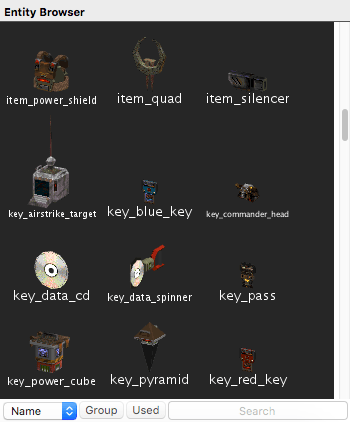
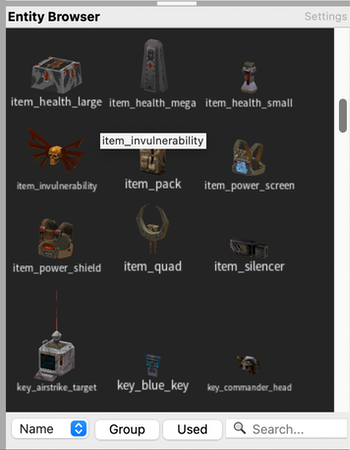
deploy: TrenchBroom/TrenchBroom@4b33e697761b98d5a0c294c6038b08195a6df755

diff --git a/latest/index.html b/latest/index.html
@@ -95,7 +95,7 @@
           <img src="images/icon.png" alt="TrenchBroom Icon">
           <div>
             <span id="content_version_heading">TrenchBroom 2024.1 Reference Manual</span>
-            <span><strong>Build:</strong> v2024.1-RC1 Release</span>
+            <span><strong>Build:</strong> v2024.1-RC2 Release</span>
           </div>
         </div>
         <div id="content_version_links">
@@ -384,7 +384,8 @@
         <p>The order of the enabled mods is important because it defines the <a href="#mods">priorities for loading resources</a>. You can change the priority of enabled mods by reordering them in the list. For this, you can select an enabled mod and use the small triangles below the list of enabled mods to push it up or down.</p>
         <p>Mods are stored in a worldspawn property called "_tb_mod".</p>
         <h3 id="entity_definition_setup">Loading Entity Definitions</h3>
-        <p><img src="images/EntityDefinitionEditor.png" alt="Entity definition editor" /> Entity definitions are text files containing information about <a href="#entity_definitions">the meaning of entities and their properties</a>. Depending on the game and mod you are mapping for, you might want to load different entity definitions into the editor. To load an entity definition file into TrenchBroom, switch to the entity inspector and unfold the entity definition browser at the bottom of the inspector. The entity definition browser is horizontally divided into two areas. The upper area contains a list of <em>builtin</em> entity definition files. These are the entity definition files that came with TrenchBroom for the game you are currently working on. You can select one of these builtin files by clicking on it. TrenchBroom will load the file and update its resources accordingly. Alternatively, you may want to load an external entity definition file of your own. To do this, click the button labeled “Browse” in the lower area of the entity definition browser and choose the file you wish to load. Currently, TrenchBroom supports Radiant DEF files and ENT files as well as <a href="https://developer.valvesoftware.com/wiki/FGD">Valve FGD</a> files. To reload the entity definitions (as well as the referenced models) from the currently loaded external file, you can click the button labeled “Reload” at the bottom or use <script>print_menu_item("Menu/File/Reload Entity Definitions");</script>. This may be useful if you’re editing an entity definition file for a mod you’re working on.</p>
+        <p><img src="images/EntityDefinitionEditor.png" alt="Entity definition editor" /> Entity definitions are text files containing information about <a href="#entity_definitions">the meaning of entities and their properties</a>. Depending on the game and mod you are mapping for, you might want to load different entity definitions into the editor. To load an entity definition file into TrenchBroom, switch to the entity inspector and click on the entity browser title bar where it says “Settings”. The entity definition browser is horizontally divided into two areas. The upper area contains a list of <em>builtin</em> entity definition files. These are the entity definition files that came with TrenchBroom for the game you are currently working on. You can select one of these builtin files by clicking on it. TrenchBroom will load the file and update its resources accordingly. Alternatively, you may want to load an external entity definition file of your own. To do this, click the button labeled “Browse” in the lower area of the entity definition browser and choose the file you wish to load. Currently, TrenchBroom supports Radiant DEF files and ENT files as well as <a href="https://developer.valvesoftware.com/wiki/FGD">Valve FGD</a> files. To reload the entity definitions (as well as the referenced models) from the currently loaded external file, you can click the button labeled “Reload” at the bottom or use <script>print_menu_item("Menu/File/Reload Entity Definitions");</script>. This may be useful if you’re editing an entity definition file for a mod you’re working on.</p>
+        <p>Return to the entity browser by clicking on the entity browser title bar again where it says “Browser”.</p>
         <p>Note that FGD and ENT files contain much more information than DEF files and are generally preferable. While TrenchBroom supports all of these file types, its support for FGD and for ENT is better and more comprehensive. Unfortunately, DEF files are still relevant because Radiant style editors require them, so TrenchBroom allows you to use them, too.</p>
         <p>The path of an external entity definition file is stored in a worldspawn property called "_tb_def".</p>
         <h3 id="texture_management">Managing Textures</h3>
@@ -1096,8 +1097,12 @@
         <h2 id="working_with_textures">Working with Textures</h2>
         <p>There are two aspects to working with textures in a level editor. <a href="#texture_management">Texture management</a> and texture application. This section deals with the latter, so you will learn different ways to apply textures to brush faces and to manipulate their alignment to the faces. But before we dive into that, we have to cover three general topics: First, we present the texture browser, then we explain how TrenchBroom assigns textures to newly created brush faces, and finally we discuss different texture projection modes in TrenchBroom.</p>
         <h3 id="texture_browser">The Texture Browser</h3>
-        <p><img src="images/TextureBrowser.png" alt="The texture browser" /> The texture browser is part of the face inspector and is used for two purposes: Changing the texture for the currently selected faces and selecting the <em>current texture</em>. In the texture browser, textures are displayed with a maximum width of 64 pixels - wider textures are proportionally scaled down. The name of every texture is displayed below the image. Textures that are currently in used have a yellow border, while the current texture has a red border. If you hover over a texture image with the mouse, you will see a tooltip with the name and the dimensions of the texture.</p>
+        <p><img src="images/TextureBrowser.png" alt="The texture browser" /> The texture browser is part of the face inspector and is used for two purposes: Changing the texture for the currently selected faces and selecting the <em>current texture</em>. In the texture browser, textures are displayed with a maximum width of 64 pixels - wider textures are proportionally scaled down. The name of every texture is displayed below the image. Textures that are currently in use have a yellow border, while the current texture has a red border. If you hover over a texture image with the mouse, you will see a tooltip with the name and the dimensions of the texture.</p>
         <p>Below the texture browser, there are the same controls as in the <a href="#entity_browser">entity browser</a>: A dropdown for changing the sort order (name or usage count), a button to group by <a href="#texture_management">texture collection</a>, a button to filter by usage, and a text field to filter by name. Multiple words (space delimited) can be used to show only textures that contain all of the words. If the size of the images is too small or too large on your monitor, you can change it in the <a href="#view_layout_and_rendering">preferences</a>.</p>
+        <p>To select all faces having a certain texture, right click that texture in the texture browser and click “Select Faces” from the popup menu.</p>
+        <h3 id="filtering-texture-collections">Filtering Texture Collections</h3>
+        <p><img src="images/TextureCollectionEditor.png" alt="Filtering texture collections" /> To filter out texture collections, click on the “Settings” button in the texture browser’s title bar. This reveals a UI to enable or disable individual texture collections. Select one or more texture collections from the “Available” section and click on the “+” icon to enable them. To disable texture collections, select them in the “Enabled” section and click on the “-” icon. Click on the circular arrow icon to reload all texture collections.</p>
+        <p>Click on the “Browser” button in the texture browser’s title bar to return to the texture browser.</p>
         <h3 id="texture_projection_modes">Texture Projection Modes</h3>
         <p>In the original Quake engine, textures are projected onto brush faces along the axes of the coordinate system. In practice, the engine (the compiler, to be precise), uses the normal of a brush face to determine the projection axis - the chose axis is the one that has the smallest angle with the face’s normal. Then, the texture is projected onto the brush face along that axis. This leads to some distortion (shearing) that is particularly apparent for slanted brush faces where the face’s normal is linearly dependent on all three coordinate system axes. However, this type of projection, which we call <em>paraxial texture projection</em> in TrenchBroom, also has an advantage: If the face’s normal is linearly dependent on only two or less coordinate system axes (that is, it lies in the plane defined by two of the axes, e.g., the XY plane), then the paraxial projection ensures that the texture still fits the brush faces without having to change the scaling factors.</p>
         <p>The main disadvantage of paraxial texture projection is that it is impossible to do perfect texture locking. <em>Texture locking</em> means that the texture remains perfectly in place on the brush faces during all transformations of the face. For example, if the brush moves by 16 units along the X axis, then the textures on all faces of the brush do not move relatively to the brush. With paraxial texture projection, textures may become distorted due to the face normals changing by the transformation, but it is impossible to compensate for that shearing.</p>
